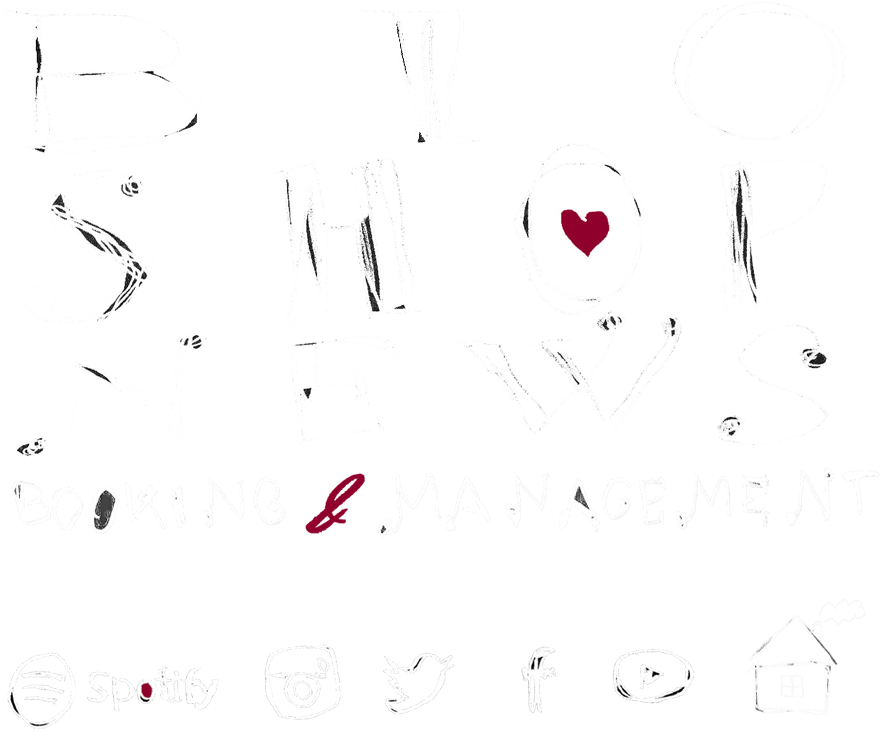
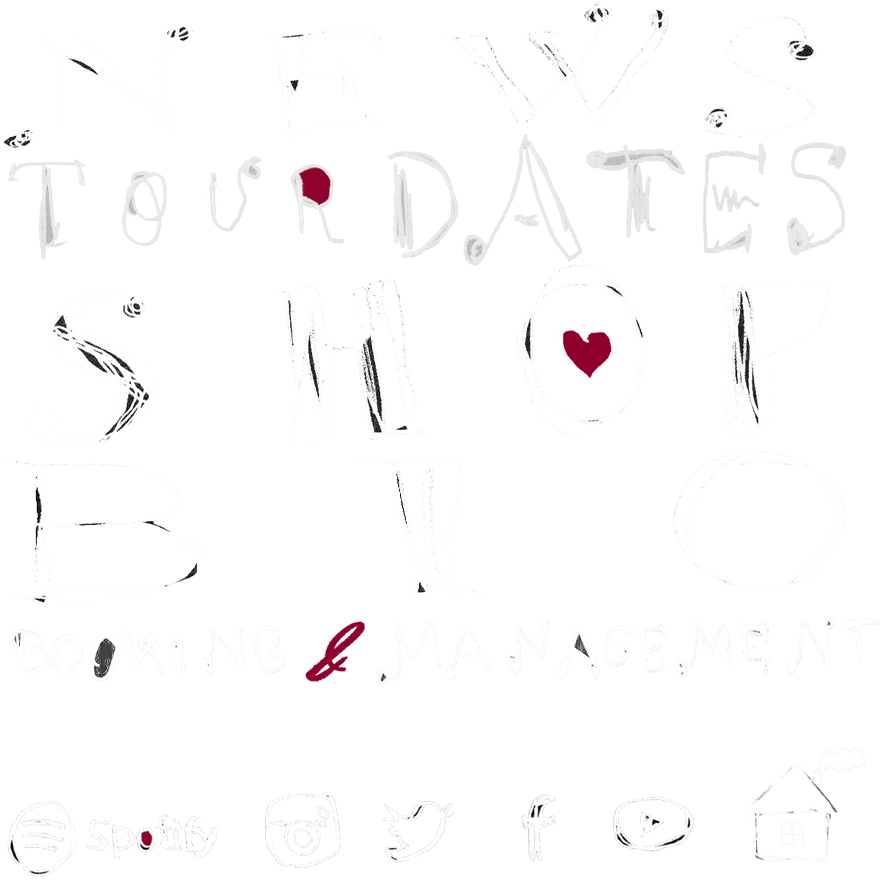
Add files via upload

diff --git a/menu_movil.html b/menu_movil.html
@@ -81,15 +81,14 @@ body {
   <TR>
     <TD VALIGN="MIDDLE" ALIGN="CENTER"><p><a href="menu_movil.html"></a></p>
       <p>&nbsp;</p>
-      <p>&nbsp;</p>
-      <p><img src="menu-movil2023-4.png" width="884" height="752" usemap="#Map2MapMap" border="0">
-        <map name="Map2MapMap"><area shape="rect" coords="740,610,846,723" href="index_movil.html"><area shape="rect" coords="364,638,471,725" href="https://twitter.com/davidatenas_"><area shape="rect" coords="593,633,706,726" href="https://www.youtube.com/sequedodormido"><area shape="rect" coords="503,625,566,729" href="https://fb.me/davidatenasoficial"><area shape="rect" coords="242,632,352,736" href="https://www.instagram.com/david_atenas"><area shape="rect" coords="-21,652,233,734" href="https://play.spotify.com/artist/08FA4kpmXgGIN6nDR7uPQ6?play=true&utm_source=open.spotify.com&utm_medium=open">
-          <area shape="rect" coords="-6,306,887,451" href="noticias_movil.html">
-          <area shape="rect" coords="-14,123,899,303" href="tienda_movil.html">
-          <area shape="rect" coords="-45,1,909,118" href="sobre_mi_movil.html">
-          <area shape="rect" coords="-3,459,907,542" href="booking_management_movil.html">
+      <p><img src="menu-movil2023-plus.png" width="884" height="826" usemap="#Map2MapMapMap" border="0">
+        <map name="Map2MapMapMap"><area shape="rect" coords="-16,734,238,816" href="https://play.spotify.com/artist/08FA4kpmXgGIN6nDR7uPQ6?play=true&utm_source=open.spotify.com&utm_medium=open"><area shape="rect" coords="247,714,357,818" href="https://www.instagram.com/david_atenas"><area shape="rect" coords="508,707,571,811" href="https://fb.me/davidatenasoficial"><area shape="rect" coords="598,715,711,808" href="https://www.youtube.com/sequedodormido"><area shape="rect" coords="369,720,476,807" href="https://twitter.com/davidatenas_"><area shape="rect" coords="745,692,851,805" href="index_movil.html"><area shape="rect" coords="8,556,873,621" href="booking_management_movil.html"><area shape="rect" coords="8,272,915,434" href="tienda_movil.html"><area shape="rect" coords="10,446,866,554" href="sobre_mi_movil.html">
+          <area shape="rect" coords="16,14,864,167" href="noticias_movil.html">
+          <area shape="rect" coords="13,171,860,262" href="conciertos_movil.html">
         </map>
       </p>
+      <p>&nbsp;</p>
+      <p>&nbsp;</p>
       <p>&nbsp;</p>
       <p>&nbsp;</p>
       <p>&nbsp;</p>
